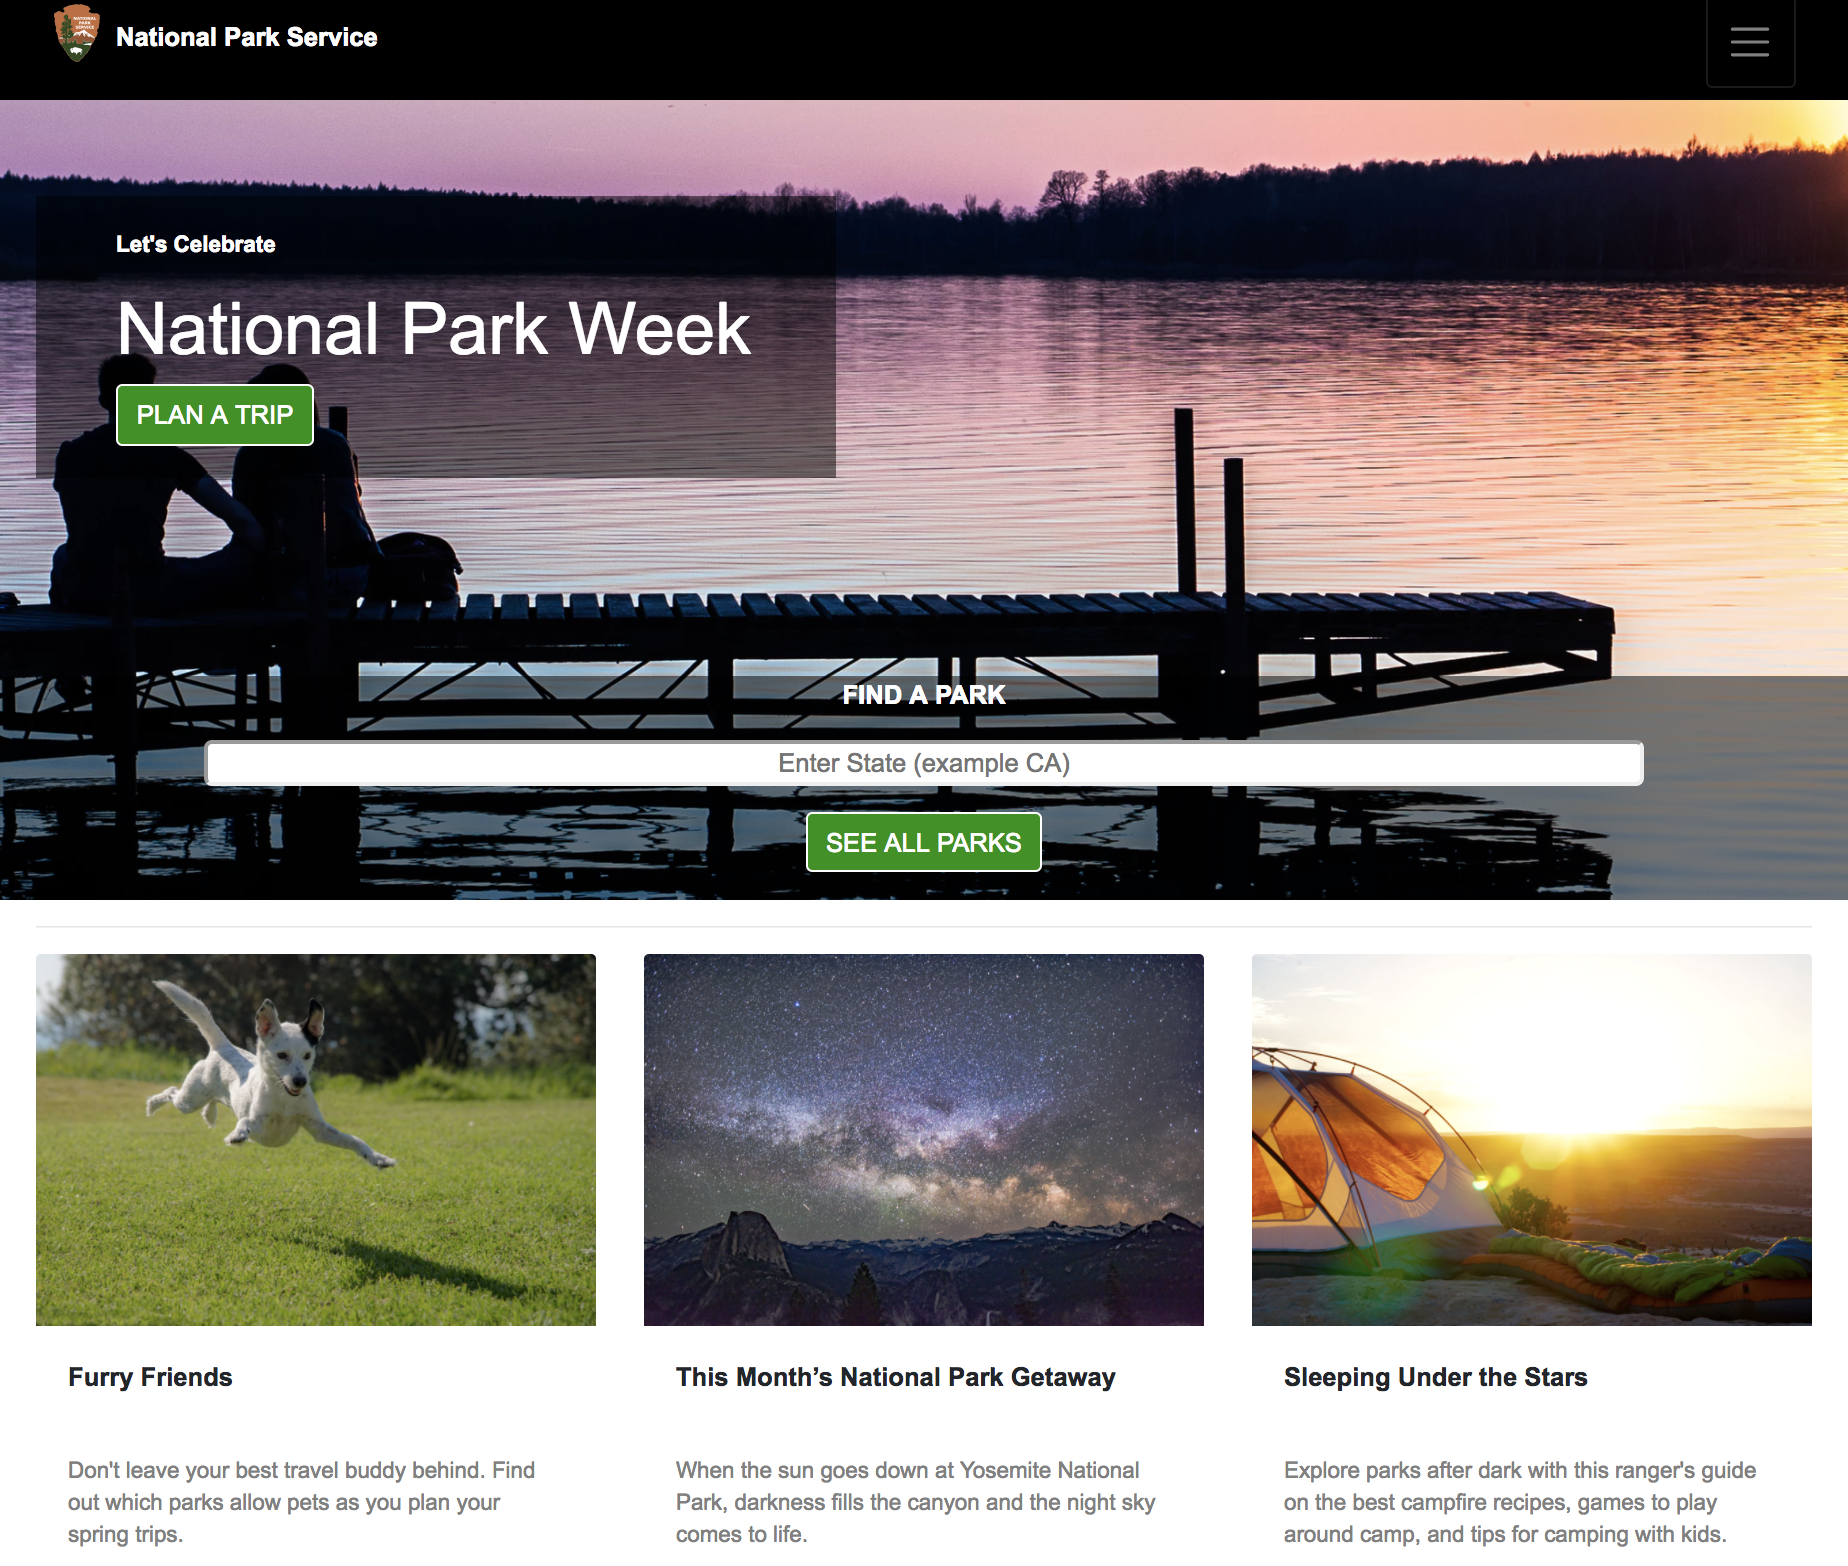
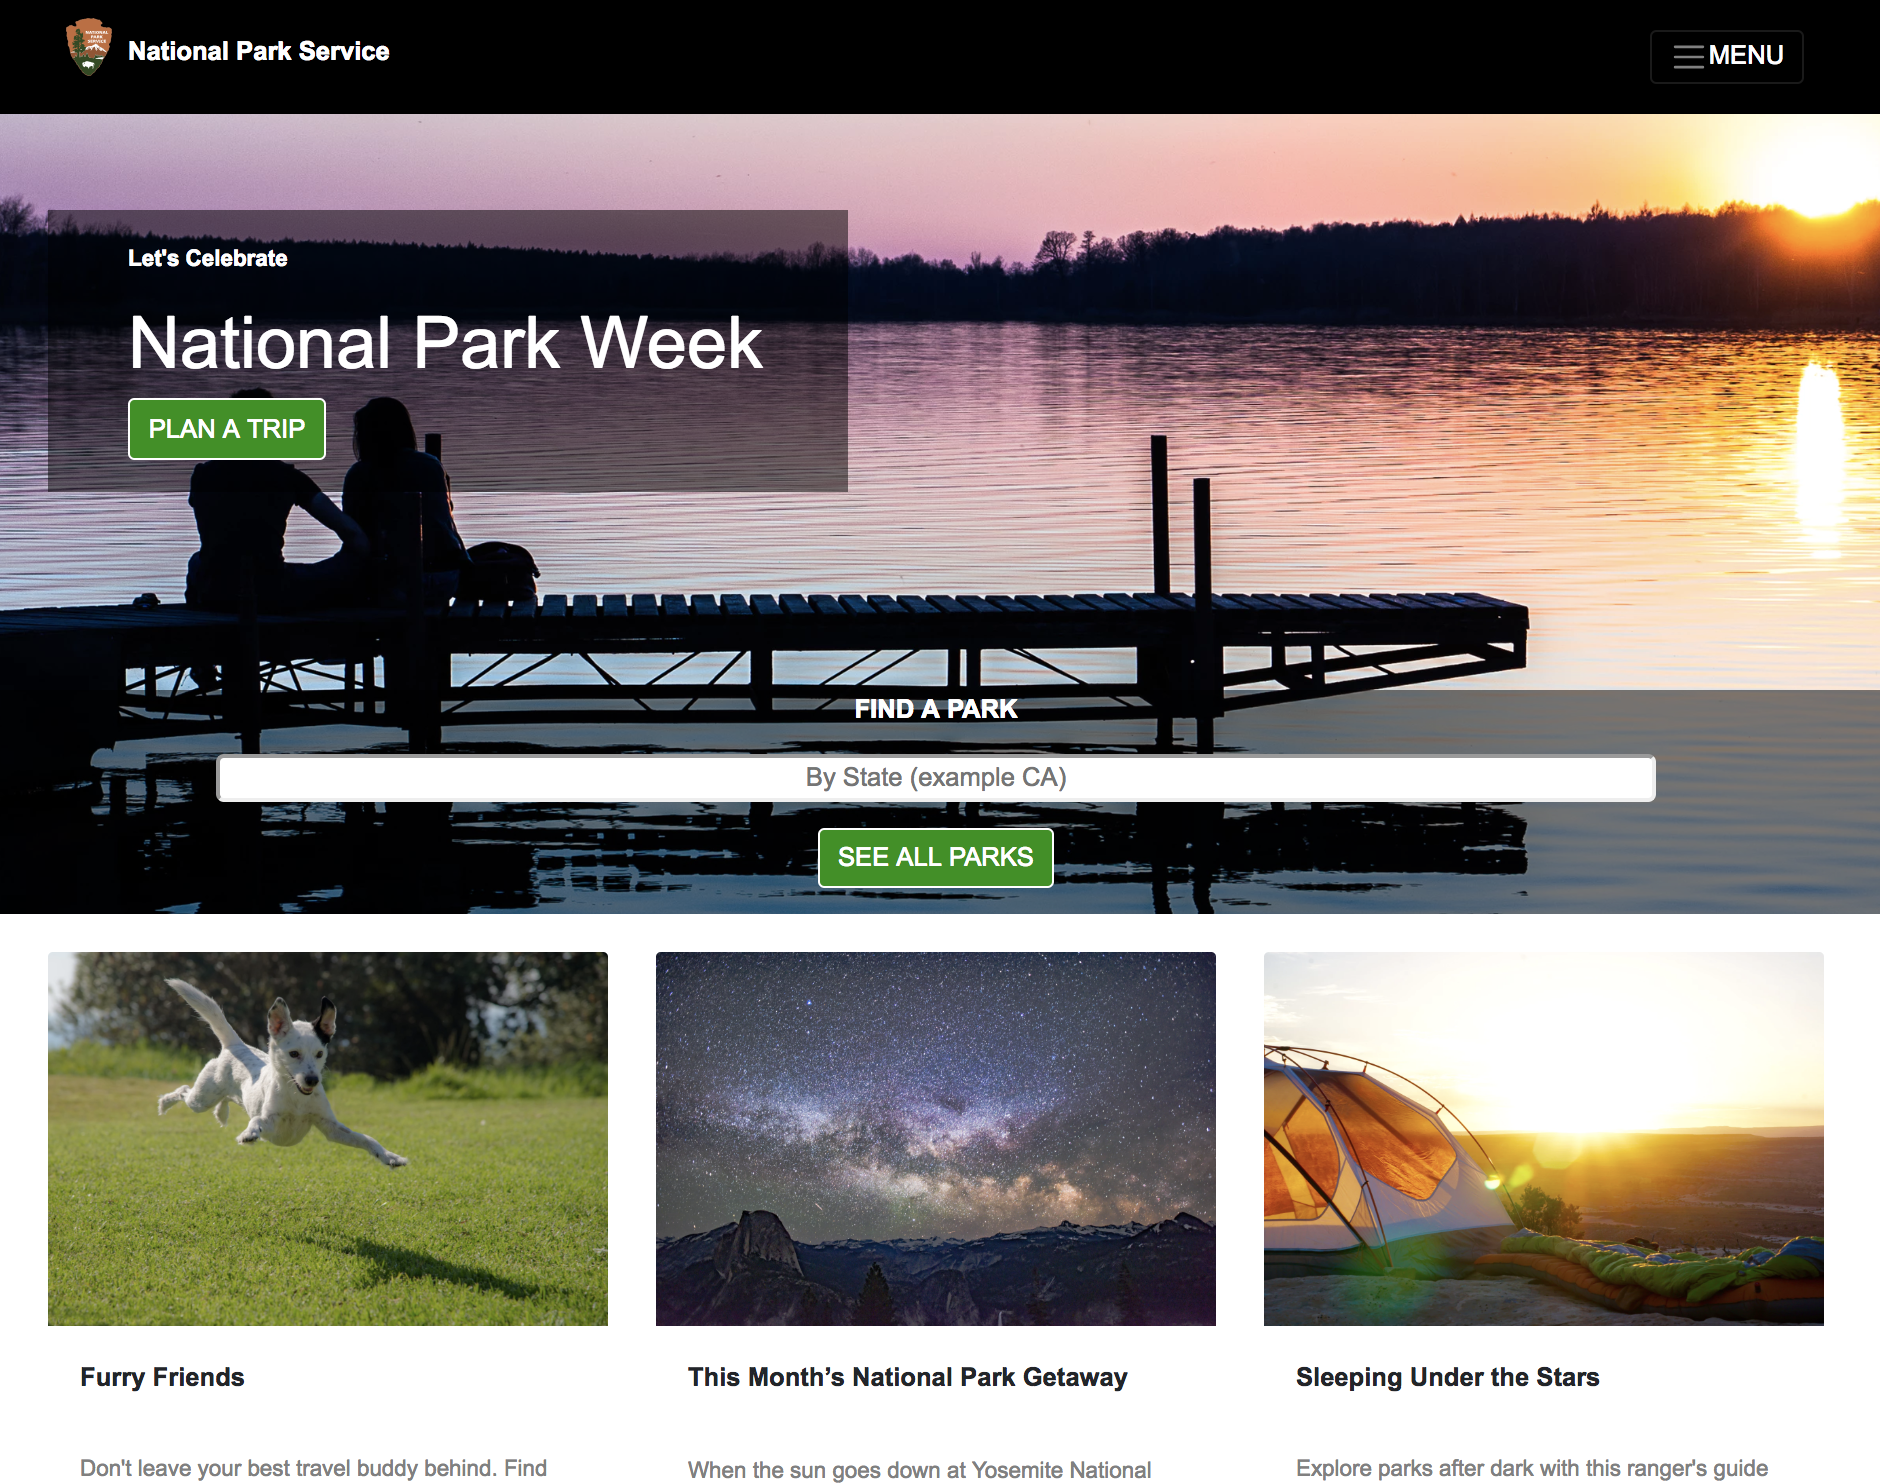
update images, README, and adjust hamburger position.

diff --git a/src/app/app.component.css b/src/app/app.component.css
@@ -16,6 +16,8 @@ button {
   position: absolute;
   font-size: 1em;
   color: white !important;
+  top: 20px;
+  margin-left: 1000px;
 }
 
 

diff --git a/README.md b/README.md
@@ -16,19 +16,11 @@
 
 2. As a user, see a navigation bar with a hamburger icon that toggles and lists items to search on the site, for example: Plan Your Visit, Learn and Explore, and Get Involved.
 
-  <img src="src/img/navbar.png" alt="navbar" style="width: 500px;">
-
-3. As a user, see a hero image on the homepage displaying current theme for the organization.
-
-  <img src="src/img/hero.png" alt="hero" style="width: 500px;"/>
+3. As a user, see a hero image on the homepage and current theme for the week.
 
 4. As a user, see blog entries and click on each for additional information.
 
-  <img src="src/img/blog-detail.png" alt="blog-detail" style="width: 300px;"/>
-
 5. As a user, see a footer with informational and social media links.
-
-  <img src="src/img/footer.png" alt="footer" style="width: 500px;"/>
 
 ## Technologies Used
 
@@ -60,7 +52,9 @@ _Create a database in Firebase by importing the file blog-posts.json._
 Instructions to create a free account:
   https://www.learnhowtoprogram.com/javascript/angular-extended/firebase-introduction-and-setup
 
-Once Firebase database is setup, create the file: api-keys.ts under src/app path and copy and paste Firebase credentials using the following syntax :
+Once Firebase database is setup, create the file: api-keys.ts under src/app path.<br>
+<br>
+Copy and paste Firebase credentials that are similar to the the following syntax into the api-keys.ts file:
 
 ```
 export var masterFirebaseConfig = {
@@ -73,8 +67,8 @@ export var masterFirebaseConfig = {
 ```
 
 Obtain a National Park Service API key from: https://www.nps.gov/subjects/developer/get-started.htm <br>
-Under /src/app create a file: api-keys.ts <br>
-Copy and paste the following with apiKey between the quotes in the api-keys.ts file:
+<br>
+In the api-keys.ts file, paste the following syntax along with the apiKey between the quotes:
 
 ```
 export const npsApiKey = "apiKey goes here"
